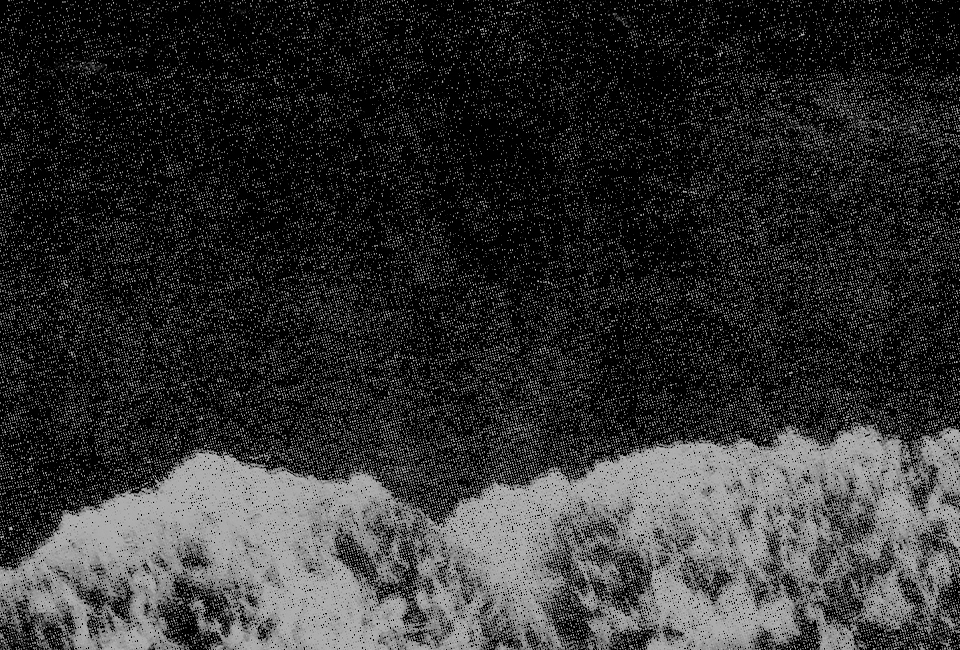
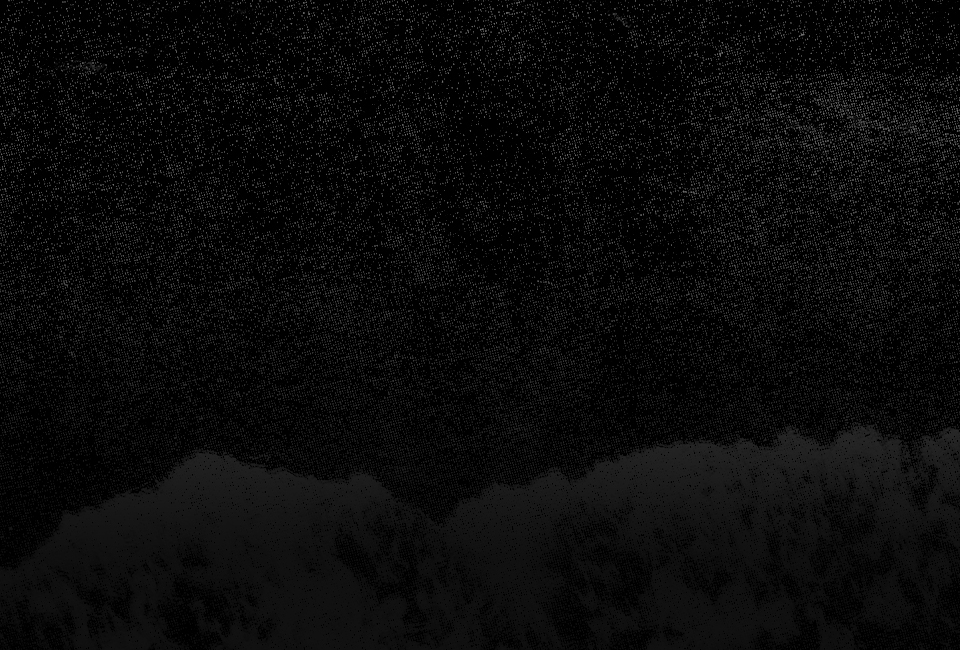
Update shared components

diff --git a/source/assets/stylesheets/components/_nav.scss b/source/assets/stylesheets/components/_nav.scss
@@ -5,14 +5,15 @@ nav {
   width:100%;
   height: 56px;
   background: $black;
+  font-family: $heading-font-family;
   color: $white;
-  text-transform: uppercase;
   @include media($laptop) {
-    height: 96px;
+    height: 66px;
   }
   a {
     @include transition(all .15s ease-in-out);
     color: $white;
+    font-weight: 400;
     &:hover {
       color: $dark-yellow;
     }
@@ -35,7 +36,7 @@ nav {
         @include pad(15px);
         display: inline-block;
         @include media($laptop) {
-          @include pad(35px);
+          @include pad(20px);
         }
       }
       &.home {
@@ -81,7 +82,8 @@ nav {
   z-index: 1;
   left: 0;
   top: 0;
-  background-color: $dark-yellow;
+  background: linear-gradient(to bottom right, rgba(0,0,0,.4), rgba(0,0,0,.9)), image-url('assets/images/cover.gif');
+  font-family: $heading-font-family;
   overflow-x: hidden;
   transition: 0.5s;
   a {
@@ -89,16 +91,15 @@ nav {
     display: block;
     padding: 10px;
     font-size: $base-font-size * 1.25;
-    font-weight: 700;
+    font-weight: 800;
     text-decoration: none;
-    text-transform: uppercase;
-    color: $black;
+    color: $white;
     @include media($laptop) {
       font-size: $base-font-size * 2.25;
       padding: 20px;
     }
     &:hover, &:focus {
-      color: #f1f1f1;
+      color: $dark-yellow;
     }
   }
   .closebtn {
@@ -113,9 +114,9 @@ nav {
       color: $dark-yellow;
     }
     @include media($laptop) {
-      @include pad(35px);
+      @include pad(20px);
       @include position(absolute, 0 5% null null);
-      height: 96px;
+      height: 66px;
     }
     @include media($tv) {
       @include position(absolute, 0 11.5% null null);

diff --git a/source/assets/stylesheets/components/_hero.scss b/source/assets/stylesheets/components/_hero.scss
@@ -8,11 +8,13 @@
   text-align: center;
   @include media($laptop) {
     @include pad(40px 0);
-    background-image: image-url('assets/images/cover.jpg');
+    background: linear-gradient(to bottom right, rgba(0,0,0,.4), rgba(0,0,0,.9)), image-url('assets/images/cover.gif');
     background-size:cover;
   }
   h1 {
     color: $white;
+    padding-top: 100px;
+    font-size: $base-font-size * 4.25;
   }
   &--compact {
     @include pad(135px 0 80px 0);
@@ -20,7 +22,11 @@
     background-position: bottom;
     @include media($laptop) {
       @include pad(175px 0 80px 0);
-      background: image-url('assets/images/hero.jpg');
+      left: 0;
+      top: 0;
+      background: linear-gradient(to bottom right, rgba(0,0,0,.4), rgba(0,0,0,.9)), image-url('assets/images/cover.gif');
+      font-family: $heading-font-family;
+      overflow-x: hidden;
     }
     p {
       @include pad(60px 30px 120px);
@@ -44,7 +50,7 @@
     }
     @include media($laptop) {
       @include pad(175px 0 80px 0);
-      background: image-url('assets/images/hero.jpg');
+      background: linear-gradient(to bottom right, rgba(0,0,0,.4), rgba(0,0,0,.9)), image-url('assets/images/cover.gif');
     }
   }
 }

diff --git a/source/assets/stylesheets/components/_callout.scss b/source/assets/stylesheets/components/_callout.scss
@@ -9,8 +9,14 @@
       @include pad(0 70px);
     }
     a {
+      @include transition(.3s);
+      text-decoration: none;
+      border-bottom: 2px solid $white;
       color: $white;
-      text-decoration: underline;
+      &:hover, &:focus {
+        color: $dark-yellow;
+        border-color: $dark-yellow;
+      }
     }
   }
   &--quote {
@@ -25,10 +31,11 @@
       }
       &::before, &::after {
         position: absolute;
-        top: 0;
+        top: -50px;
         font-size: 160px;
         font-family: 'Arial Black';
         line-height: 1;
+        color: $dark-yellow;
       }
       &::before {
         content: "\201C";

diff --git a/source/assets/stylesheets/components/_footer.scss b/source/assets/stylesheets/components/_footer.scss
@@ -2,12 +2,13 @@ footer {
   @include row;
   background-color: $black;
   color: $white;
-  text-transform: uppercase;
+  font-family: $heading-font-family;
   a {
     @include transition(all .15s ease-in-out);
     @include pad(20px);
     display: block;
     color: $white;
+    font-size: $base-font-size * 1.25;
     &:hover {
       color: $dark-yellow;
     }

diff --git a/source/assets/stylesheets/components/_contact.scss b/source/assets/stylesheets/components/_contact.scss
@@ -15,7 +15,7 @@
     @include transition(all .15s ease-in-out);
     color: $white;
     &:hover {
-      color: $dark-yellow;
+      color: $white;
     }
   }
 }
